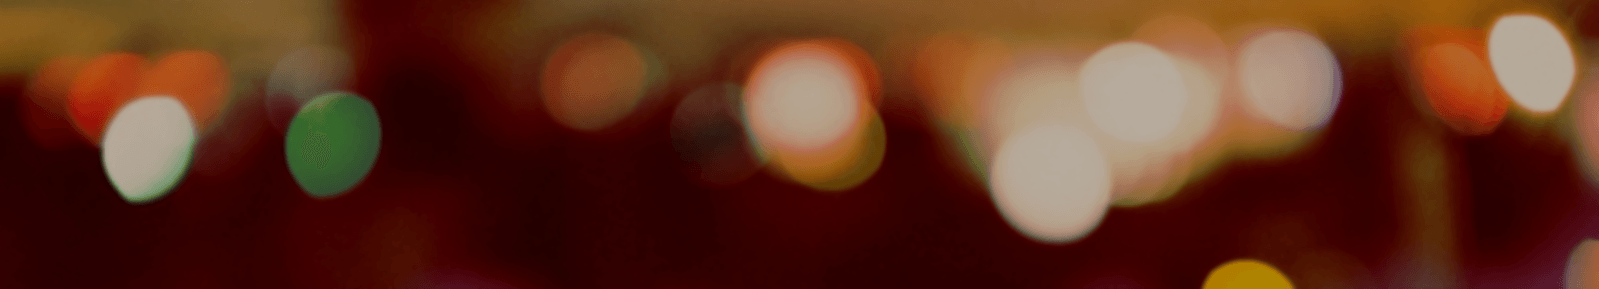
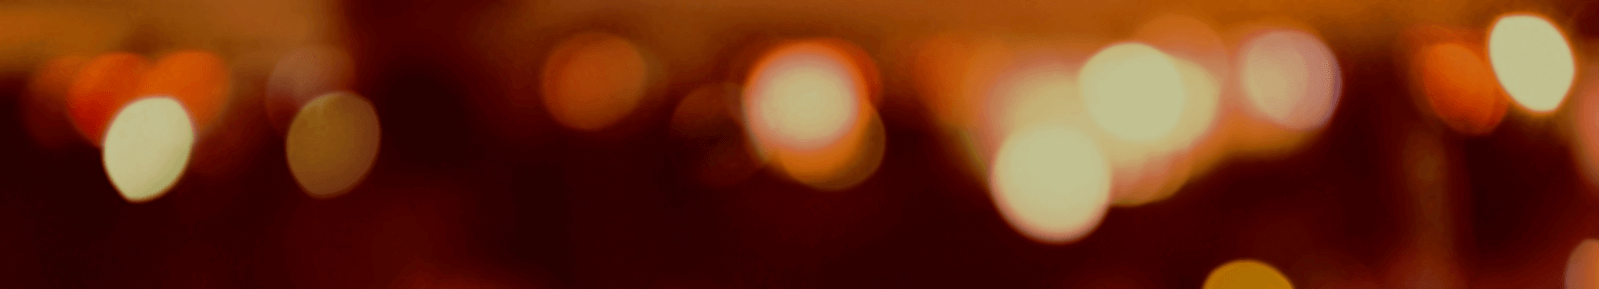
organize background images

diff --git a/src/public/common/css/main.css b/src/public/common/css/main.css
@@ -3,7 +3,7 @@
 */
 header {
   width: auto;
-  background: url('../images/background2.png') center / cover;
+  background: url('../images/background.png') center / cover;
   background-repeat: no-repeat;
 }
 
